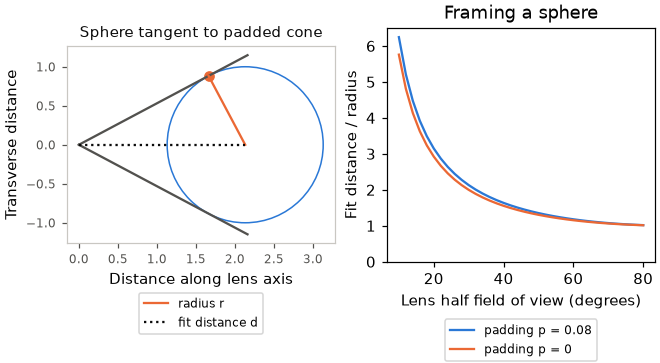
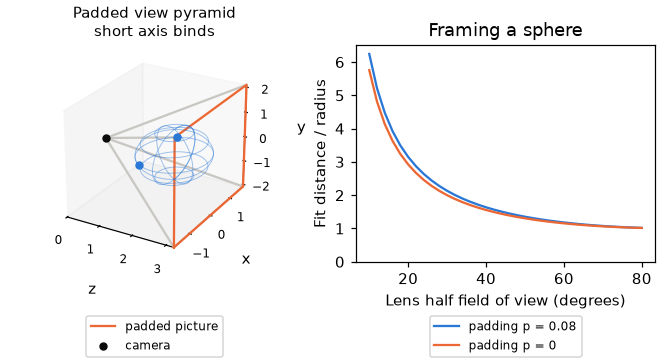
math: show orbit motion and sphere fitting in 3D

diff --git a/launcher/tools/math/motion_figures.py b/launcher/tools/math/motion_figures.py
@@ -5,12 +5,13 @@ import pathlib
 import sys
 
 sys.path.insert(0, str(pathlib.Path(__file__).resolve().parents[1]))
-from math_figures import PANEL_SIZE, PANEL_TITLE_ROOM, ROOT, SHAPE_ALPHA, run_probe, square_axes
+from math_figures import (DISPLAY, PANEL_SIZE, PANEL_TITLE_ROOM, ROOT, SHAPE_ALPHA,
+                          VIEW_AZIMUTH, VIEW_ELEVATION, read_define, run_probe)
 from docs.plot_style import (FAINT, INK, LABEL_SIZE, MUTED, SLOTS, TITLE_SIZE,
-                             save, save_gif, subplots)
+                             figure, save, save_gif, subplots)
 import numpy as np
-from matplotlib.patches import Circle
-from matplotlib.collections import LineCollection
+from matplotlib.lines import Line2D
+from mpl_toolkits.mplot3d.art3d import Line3DCollection
 
 PROBE = pathlib.Path(__file__).with_name("motion_figures_probe.c")
 SOURCES = (PROBE, ROOT / "launcher/packages/math/src/motion/orbit_motion.c")
@@ -18,7 +19,7 @@ GIF_FRAMES = 60
 GIF_FPS = 10
 PANELS = 2
 SAMPLE_MARKER_INTERVAL = 5
-FIT_CONE_EXTENSION = 1.3
+FIT_CONE_EXTENSION = 1.1
 WAVE_MARGIN = 1.2
 LEGEND_ANCHOR = (0.5, -0.22)
 DECAY_MARKER_SIZE = 4
@@ -26,52 +27,115 @@ BUMP_MARKER_SIZE = 3
 COLORBAR_SHRINK = 0.7
 COLUMN_EDGE = 0.5
 OFFSET_COLORMAP = "RdBu_r"
-FLING_HALF_LIVES = 4
 TRAIL_SAMPLES = 5
-ORBIT_MARGIN = 1.1
+ORBIT_MARGIN = 1.3
+FRAME_AXIS_LENGTH = 0.3
+ORBIT_ZOOM = 1.5
+ORBIT_DPI = 70
+ORBIT_GIF_COLORS = 64
+FRAME_AXIS_WIDTH = 2
+ARROW_HEAD_RATIO = 0.3
+WIRE_SAMPLES = 49
+WIRE_STRIDE = 8
+WIRE_ALPHA = 0.45
+WIRE_WIDTH = 0.6
+ORBIT_PANEL_RATIOS = (3, 1)
+PHASE_LABEL_HEIGHT = 1.04
+SPEED_MARGIN = 1.15
+SPEED_LEGEND_ANCHOR = (0.5, -0.65)
+ORBIT_LEGEND_ANCHOR = (0.5, 0.01)
 ANIMATION_DPI = 80
 PANEL_LABEL_PADDING = 0.15
 WAVE_COLOR_PERCENTILE = 98
 WAVE_PUSH_TICKS = 5
 
 
+def wire_sphere(axis, center, radius, color=FAINT):
+    yaw = np.linspace(0, 2 * np.pi, WIRE_SAMPLES)
+    pitch = np.linspace(-np.pi / 2, np.pi / 2, WIRE_SAMPLES)
+    x = center[0] + radius * np.outer(np.cos(yaw), np.cos(pitch))
+    y = center[1] + radius * np.outer(np.ones_like(yaw), np.sin(pitch))
+    z = center[2] + radius * np.outer(np.sin(yaw), np.cos(pitch))
+    axis.plot_wireframe(x, y, z, rstride=WIRE_STRIDE, cstride=WIRE_STRIDE,
+                        color=color, alpha=WIRE_ALPHA, linewidth=WIRE_WIDTH)
+
+
 def orbit_animation(data, output):
-    samples = np.array(data["orbit"])
-    end = data["release"] + FLING_HALF_LIVES * data["half_life"]
-    samples = samples[samples[:, 0] <= end]
-    fig, (top, strip) = subplots(PANELS, 1, (PANEL_SIZE * PANELS, PANEL_SIZE * PANELS))
-    fig.set_dpi(ANIMATION_DPI)
-    square_axes(top, "Held steering, then fling (top view)")
-    radius = np.hypot(*samples[0, 1:3])
-    top.add_patch(Circle((0, 0), radius, fill=False, edgecolor=FAINT))
-    top.scatter([0], [0], color=INK, label="target")
-    trail = LineCollection([], colors=SLOTS[0], linewidths=2)
-    top.add_collection(trail)
-    dot, = top.plot([], [], "o", color=SLOTS[0])
+    samples = data["orbit"]
+    times = np.array([row["time"] for row in samples])
+    positions = np.array([row["position"] for row in samples])
+    speeds = np.array([row["speed"] for row in samples])
+    target = np.array(data["target"])
+    radius = np.linalg.norm(positions[0] - target)
+    fig = figure((PANEL_SIZE * PANELS, PANEL_SIZE * PANELS))
+    fig.set_dpi(ORBIT_DPI)
+    grid = fig.add_gridspec(PANELS, 1, height_ratios=ORBIT_PANEL_RATIOS)
+    top = fig.add_subplot(grid[0], projection="3d")
+    strip = fig.add_subplot(grid[1])
+    wire_sphere(top, target, radius)
+    yaw = np.linspace(0, 2 * np.pi, WIRE_SAMPLES)
+    for pitch in (-data["pitch_limit"], data["pitch_limit"]):
+        top.plot(target[0] + radius * np.cos(pitch) * np.cos(yaw),
+                 target[1] + radius * np.sin(pitch) * np.ones_like(yaw),
+                 target[2] + radius * np.cos(pitch) * np.sin(yaw), color=MUTED, linestyle="--")
+    top.scatter(*target, color=INK)
+    trail = Line3DCollection([], colors=SLOTS[0], linewidths=2)
+    top.add_collection3d(trail, autolim=False)
+    arrows = []
     bound = radius * ORBIT_MARGIN
-    top.set(xlabel="x", ylabel="z", xlim=(-bound, bound), ylim=(-bound, bound))
-    strip.plot(samples[:, 0], samples[:, 3], color=SLOTS[0])
-    strip.axvline(data["release"], color=INK, label="release")
-    for time in np.arange(data["release"] + data["half_life"], end + data["half_life"] / 2, data["half_life"]):
+    top.set(xlim=(target[0] - bound, target[0] + bound),
+            ylim=(target[1] - bound, target[1] + bound),
+            zlim=(target[2] - bound, target[2] + bound))
+    top.set_box_aspect((1, 1, 1), zoom=ORBIT_ZOOM)
+    top.view_init(elev=VIEW_ELEVATION, azim=VIEW_AZIMUTH, vertical_axis="y")
+    top.set_axis_off()
+    handles = [Line2D([], [], color=color, marker="s", linewidth=FRAME_AXIS_WIDTH, label=label) for color, label in
+               zip(SLOTS, ("+x stays level", "+y", "+z faces target"))]
+    handles.extend((Line2D([], [], marker="o", linestyle="none", color=INK, label="target"),
+                    Line2D([], [], linestyle="--", color=MUTED, label="±pitch limit")))
+    top.legend(handles=handles, fontsize=LABEL_SIZE, loc="lower center",
+               bbox_to_anchor=ORBIT_LEGEND_ANCHOR, ncol=3, frameon=False)
+    for column, label, color in zip(speeds.T, ("yaw", "pitch"), SLOTS):
+        strip.plot(times, column, color=color, label=label)
+    boundaries = (0, data["release"], data["reset_start"], times[-1])
+    for start, end, label in zip(boundaries, boundaries[1:], ("held", "fling", "reset")):
+        strip.axvline(start, color=MUTED, linewidth=WIRE_WIDTH)
+        strip.text((start + end) / 2, PHASE_LABEL_HEIGHT, label, transform=strip.get_xaxis_transform(),
+                   ha="center", fontsize=LABEL_SIZE)
+    for time in np.arange(data["release"] + data["half_life"], data["reset_start"], data["half_life"]):
         strip.axvline(time, color=FAINT, linestyle=":")
-    cursor = strip.axvline(0, color=SLOTS[1])
-    strip.set(xlabel="Time (s); dotted marks: fling half-lives", ylabel="Yaw speed (rad/s)",
-              xlim=(0, end), ylim=(0, None))
-    strip.legend(fontsize=LABEL_SIZE)
-    indices = np.linspace(0, len(samples) - 1, GIF_FRAMES).astype(int)
+    cursor = strip.axvline(0, color=INK)
+    bound = abs(speeds).max() * SPEED_MARGIN
+    strip.axhline(0, color=FAINT, linewidth=WIRE_WIDTH)
+    strip.set(xlabel="Time (s); dotted marks: fling half-lives", ylabel="Speed (rad/s)",
+              xlim=(0, times[-1]), ylim=(-bound, bound))
+    strip.tick_params(labelsize=LABEL_SIZE)
+    strip.legend(fontsize=LABEL_SIZE, ncol=2, loc="upper center", bbox_to_anchor=SPEED_LEGEND_ANCHOR)
 
     def draw(frame):
-        index = indices[frame]
-        time, x, z, _ = samples[index]
-        points = samples[max(0, index - TRAIL_SAMPLES):index + 1, 1:3]
+        for arrow in arrows:
+            arrow.remove()
+        arrows.clear()
+        row = samples[frame]
+        points = positions[max(0, frame - TRAIL_SAMPLES):frame + 1]
         trail.set_segments(np.stack((points[:-1], points[1:]), axis=1))
         if len(points) > 1:
             trail.set_alpha(np.linspace(0, 1, len(points) - 1))
-        dot.set_data([x], [z])
+        for direction, color in zip(row["axes"], SLOTS):
+            arrows.append(top.quiver(*positions[frame], *direction, color=color,
+                                     length=radius * FRAME_AXIS_LENGTH, linewidth=FRAME_AXIS_WIDTH,
+                                     arrow_length_ratio=ARROW_HEAD_RATIO))
+        time = row["time"]
         cursor.set_xdata([time, time])
-        top.set_title(f"{'held' if time < data['release'] else 'fling'} — {time:.1f} s", fontsize=TITLE_SIZE)
+        phase = "held" if time < data["release"] else "fling" if time < data["reset_start"] else "reset"
+        if time >= data["reset_start"] and not row["resetting"]:
+            phase = "reset settled — home"
+        top.set_title(f"3D orbit: {phase} — {time:.1f} s", fontsize=TITLE_SIZE)
 
-    save_gif(fig, draw, GIF_FRAMES, output, GIF_FPS)
+    draw(0)
+    fig.canvas.draw()
+    fig.set_layout_engine("none")
+    save_gif(fig, draw, len(samples), output, GIF_FPS, colors=ORBIT_GIF_COLORS)
 
 
 def decay_figure(data, output):
@@ -104,17 +168,33 @@ def reset_figure(data, output):
 
 
 def fit_figure(data, output):
-    fig, (diagram, axis) = subplots(1, PANELS, (PANEL_SIZE * PANELS, PANEL_SIZE + PANEL_TITLE_ROOM))
-    square_axes(diagram, "Sphere tangent to padded cone")
+    fig = figure((PANEL_SIZE * PANELS, PANEL_SIZE + PANEL_TITLE_ROOM))
+    diagram = fig.add_subplot(1, PANELS, 1, projection="3d")
+    axis = fig.add_subplot(1, PANELS, 2)
     distance, radius = data["distance"], data["radius"]
-    x, y = data["tangent"]
-    diagram.add_patch(Circle((distance, 0), radius, fill=False, edgecolor=SLOTS[0]))
-    diagram.plot([0, x * FIT_CONE_EXTENSION], [0, y * FIT_CONE_EXTENSION], color=MUTED)
-    diagram.plot([0, x * FIT_CONE_EXTENSION], [0, -y * FIT_CONE_EXTENSION], color=MUTED)
-    diagram.plot([distance, x], [0, y], color=SLOTS[1], label="radius r")
-    diagram.plot([0, distance], [0, 0], ":", color=INK, label="fit distance d")
-    diagram.scatter([x], [y], color=SLOTS[1])
-    diagram.set(xlabel="Distance along lens axis", ylabel="Transverse distance")
+    width = read_define(DISPLAY, "BSP_LCD_H_RES")
+    height = read_define(DISPLAY, "BSP_LCD_V_RES")
+    short_tangent = data["padded_tangent"]
+    half_tangents = np.array((width, height)) / min(width, height) * short_tangent
+    depth = distance + radius * FIT_CONE_EXTENSION
+    corners = np.array([(sx * depth * half_tangents[0], sy * depth * half_tangents[1], depth)
+                        for sx, sy in ((-1, -1), (1, -1), (1, 1), (-1, 1), (-1, -1))])
+    for corner in corners[:-1]:
+        diagram.plot(*np.array(((0, 0, 0), corner)).T, color=FAINT)
+    diagram.plot(*corners.T, color=SLOTS[1], label="padded picture")
+    wire_sphere(diagram, (0, 0, distance), radius, color=SLOTS[0])
+    diagram.grid(False)
+    diagram.scatter(0, 0, 0, color=INK, label="camera")
+    tangent_z, tangent_short = data["tangent"]
+    for sign in (-1, 1):
+        contact = (sign * tangent_short, 0, tangent_z) if width < height else (0, sign * tangent_short, tangent_z)
+        diagram.scatter(*contact, color=SLOTS[0])
+    diagram.set_title("Padded view pyramid\nshort axis binds", fontsize=TITLE_SIZE)
+    diagram.set(xlabel="x", ylabel="y", zlabel="z", xlim=(-corners[:, 0].max(), corners[:, 0].max()),
+                ylim=(-corners[:, 1].max(), corners[:, 1].max()), zlim=(0, depth))
+    diagram.set_box_aspect((np.ptp(corners[:, 0]), np.ptp(corners[:, 1]), depth))
+    diagram.view_init(elev=VIEW_ELEVATION, azim=VIEW_AZIMUTH, vertical_axis="y")
+    diagram.tick_params(labelsize=LABEL_SIZE, pad=0)
     diagram.legend(fontsize=LABEL_SIZE, loc="upper center", bbox_to_anchor=LEGEND_ANCHOR)
     samples = np.array(data["samples"])
     for column, label, color in ((1, f"padding p = {data['padding']:g}", SLOTS[0]), (2, "padding p = 0", SLOTS[1])):

diff --git a/launcher/tools/math/motion_figures_probe.c b/launcher/tools/math/motion_figures_probe.c
@@ -7,9 +7,12 @@
 #include "math/motion/spring_line.h"
 
 static const float frame_s = 0.1F;
-static const int orbit_frames = 60;
+static const int fling_half_lives = 4;
+static const int home_still_frames = 6;
 static const int held_frames = 15;
 static const float steering_rate = 1.5F;
+static const float pitch_steering_rate = 0.45F;
+static const vec3f_t frame_axes[] = {{1, 0, 0}, {0, 1, 0}, {0, 0, 1}};
 static const float decay_steps[] = {0.016F, 0.050F};
 static const float decay_duration_s = 2.8F;
 static const float reset_step_s = 0.01F;
@@ -42,13 +45,36 @@ new_orbit(void) {
 static void
 orbit_samples(void) {
     orbit_motion_t orbit = new_orbit();
-    printf("\"half_life\":%.9g,\"release\":%.9g,\"orbit\":[", ORBIT_MOTION_FLING_HALF_LIFE_S, held_frames * frame_s);
-    for (int i = 0; i < orbit_frames; i++) {
+    const int reset_frame = held_frames + (int)roundf(fling_half_lives * orbit.fling_half_life_s / frame_s);
+    const int maximum_frames = reset_frame + (int)(reset_duration_s / frame_s) + home_still_frames;
+    int still_frames = 0;
+    printf("\"half_life\":%.9g,\"release\":%.9g,\"reset_start\":%.9g,\"pitch_limit\":%.9g,"
+           "\"target\":[%.9g,%.9g,%.9g],\"orbit\":[",
+           orbit.fling_half_life_s, held_frames * frame_s, reset_frame * frame_s, ORBIT_MOTION_PITCH_LIMIT, target.x,
+           target.y, target.z);
+    for (int i = 0; i < maximum_frames; i++) {
+        if (i == reset_frame) {
+            orbit_motion_update(&orbit, &(orbit_motion_input_t){.reset = true}, 0);
+        }
         const transformf_t pose = orbit_motion_pose(&orbit);
-        printf("%s[%.9g,%.9g,%.9g,%.9g]", i ? "," : "", i * frame_s, pose.position.x, pose.position.z,
-               orbit.velocity.yaw);
-        const orbit_motion_input_t input = {.held = i < held_frames, .yaw_turn = steering_rate * frame_s};
+        printf("%s{\"time\":%.9g,\"position\":[%.9g,%.9g,%.9g],\"speed\":[%.9g,%.9g],"
+               "\"resetting\":%s,\"axes\":[",
+               i ? "," : "", i * frame_s, pose.position.x, pose.position.y, pose.position.z, orbit.velocity.yaw,
+               orbit.velocity.pitch, orbit.resetting ? "true" : "false");
+        for (size_t j = 0; j < sizeof frame_axes / sizeof frame_axes[0]; j++) {
+            const vec3f_t axis = quatf_rotate(pose.rotation, frame_axes[j]);
+            printf("%s[%.9g,%.9g,%.9g]", j ? "," : "", axis.x, axis.y, axis.z);
+        }
+        printf("]}");
+        if (i >= reset_frame && !orbit.resetting && ++still_frames == home_still_frames) {
+            break;
+        }
+        const orbit_motion_input_t input = {
+            .held = i < held_frames, .yaw_turn = steering_rate * frame_s, .pitch_turn = pitch_steering_rate * frame_s};
         orbit_motion_update(&orbit, &input, frame_s);
+    }
+    if (still_frames != home_still_frames) {
+        exit(EXIT_FAILURE);
     }
     printf("],\"decay\":[");
     for (size_t j = 0; j < sizeof decay_steps / sizeof decay_steps[0]; j++) {
@@ -94,8 +120,8 @@ fit_samples(void) {
     const float tangent_x = distance / (1 + padded * padded);
     const float tangent_y = tangent_x * padded;
     printf(",\"fit\":{\"radius\":%.9g,\"distance\":%.9g,\"tangent\":[%.9g,%.9g],"
-           "\"padding\":%.9g,\"samples\":[",
-           sphere_radius, distance, tangent_x, tangent_y, ORBIT_MOTION_FRAME_PADDING);
+           "\"padding\":%.9g,\"padded_tangent\":%.9g,\"samples\":[",
+           sphere_radius, distance, tangent_x, tangent_y, ORBIT_MOTION_FRAME_PADDING, padded);
     for (int angle = fit_min_deg; angle <= fit_max_deg; angle += fit_step_deg) {
         const float t = tanf(angle * MATH_RADIANS_PER_DEGREE);
         printf("%s[%d,%.9g,%.9g]", angle == fit_min_deg ? "" : ",", angle,

diff --git a/docs/math/Motion.md b/docs/math/Motion.md
@@ -36,7 +36,10 @@ follows that turn over the frame time $`\Delta t`$, with half-life $`h_d`$
 v \gets v + (\Delta/\Delta t-v)(1-2^{-\Delta t/h_d})
 ```
 
-![Top view of held orbit steering followed by a slowing fling, with a moving speed cursor and half-life marks](../images/math/orbit-fling.gif)
+The 3D orbit shows held yaw and pitch steering, a released fling, and a reset to home.
+The pose's +z faces the target; the speed strip tracks both turns.
+
+![3D orbit with pose axes, a fading trail and pitch-limit circles through held steering, fling and reset to home; signed yaw and pitch speeds below](../images/math/orbit-fling.gif)
 
 After release, speed halves every $`h`$ seconds (`ORBIT_MOTION_FLING_HALF_LIFE_S`).
 The exact integral gives the angle covered; the same elapsed time gives the same
@@ -78,7 +81,10 @@ the padded cone's tangent is $`t`$:
 t=\tan\theta(1-p), \qquad d=\frac{r\sqrt{1+t^2}}{t}
 ```
 
-![Sphere tangent to a padded lens cone and fit distance per radius against half field of view, with and without padding](../images/math/orbit-fit-distance.png)
+The 3D view shows the camera, padded picture and sphere touching the short-side planes.
+The plot compares fit distance with and without padding.
+
+![3D padded view pyramid with the camera at its apex and a fitted sphere binding the short axis; fit distance per radius against half field of view alongside](../images/math/orbit-fit-distance.png)
 
 ## spring_line.h
 
